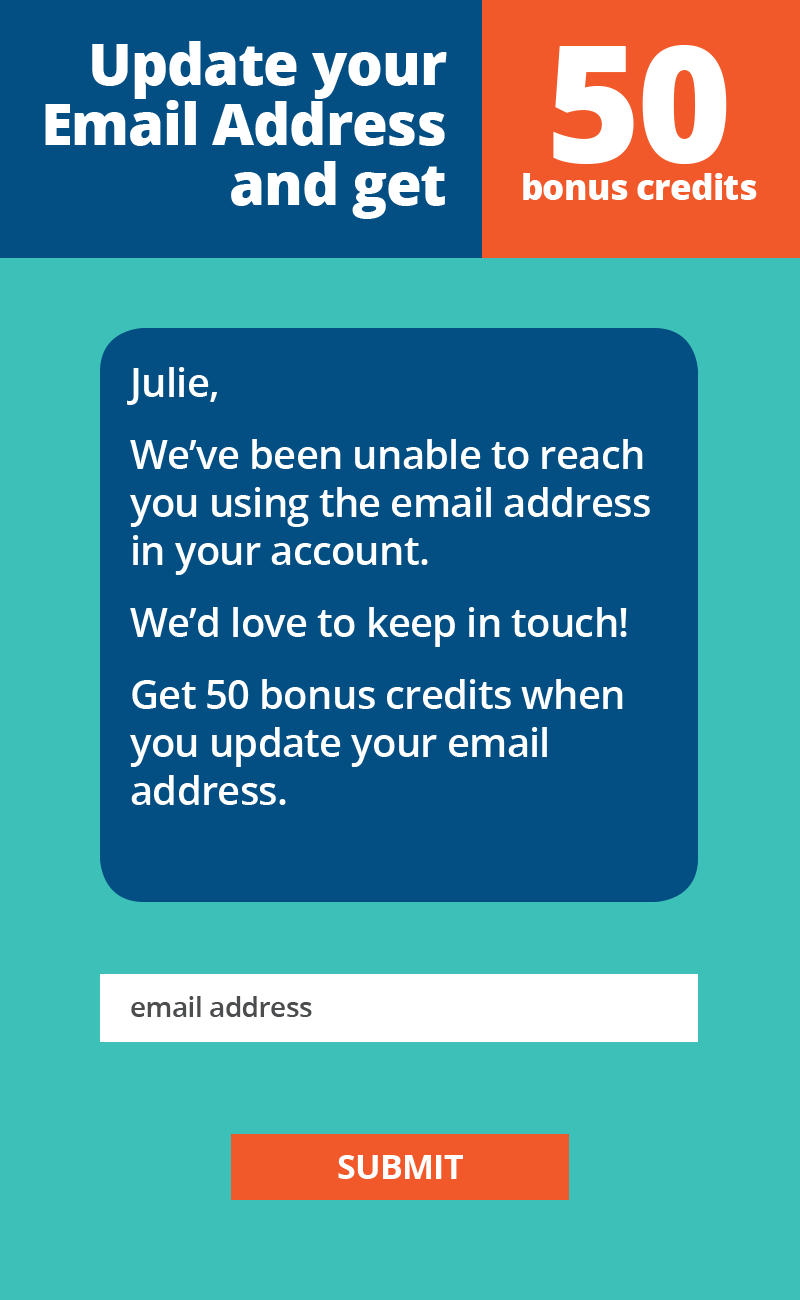
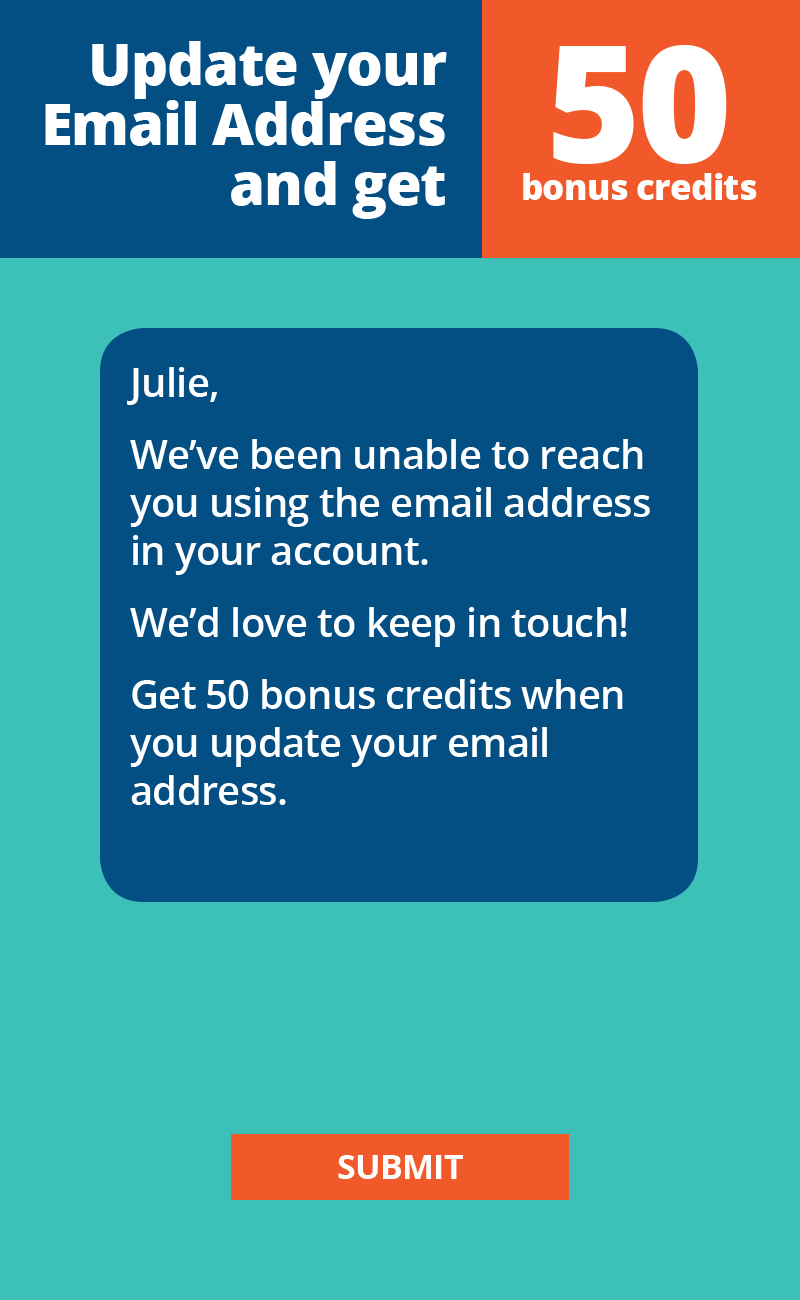
Email input

Changed region(s): [[0.125, 0.7385, 0.875, 0.8]]

diff --git a/KT_Loyalty.html b/KT_Loyalty.html
@@ -244,7 +244,13 @@
         </a>
     </div>
     <div class="card fixedcard"><img draggable="false" class="heroImage" src="img/kt/LoyaltyBook/5 KT_selling_mobile-loyalty-book-5-060518-1.png"></div> 
-    <div class="card fixedcard"><img draggable="false" class="heroImage" src="img/kt/LoyaltyBook/6 KT_selling_mobile-loyalty-book-6-060518-1.png"></div> 
+    <div class="card fixedcard"><img draggable="false" class="heroImage" src="img/kt/LoyaltyBook/6 KT_selling_mobile-loyalty-book-6-060518-1.png">
+        <input style="position:absolute; z-index:11; left:170px;top: 990px; height: 50px; width: 490px; font-size: 25px;" type="text" id="emailaddress" value="email address"/>
+            <svg style="position:absolute; left:250px; top: 1133px; z-index:11; cursor: pointer;" onclick="with (document.querySelector('#emailaddress')) {style.backgroundColor = 'rgba(0,0,0,0)'; disabled = true;}; alert('Thank You!!');">
+                <polygon points="0,0 350,0 350,70 0,70" style="fill: rgba(0,255,0,0);"/>
+            </svg>
+        </a>
+    </div>
     <div class="card fixedcard"><img draggable="false" class="heroImage" src="img/kt/LoyaltyBook/7 KT_selling_mobile-loyalty-book-7-060518-1.png">
         <a href="https://reach-api.urbanairship.com/v1/pass/adaptive/uI4R0ra21l">
             <svg style="position:absolute; left:245px; top: 1133px; z-index:11; ">
